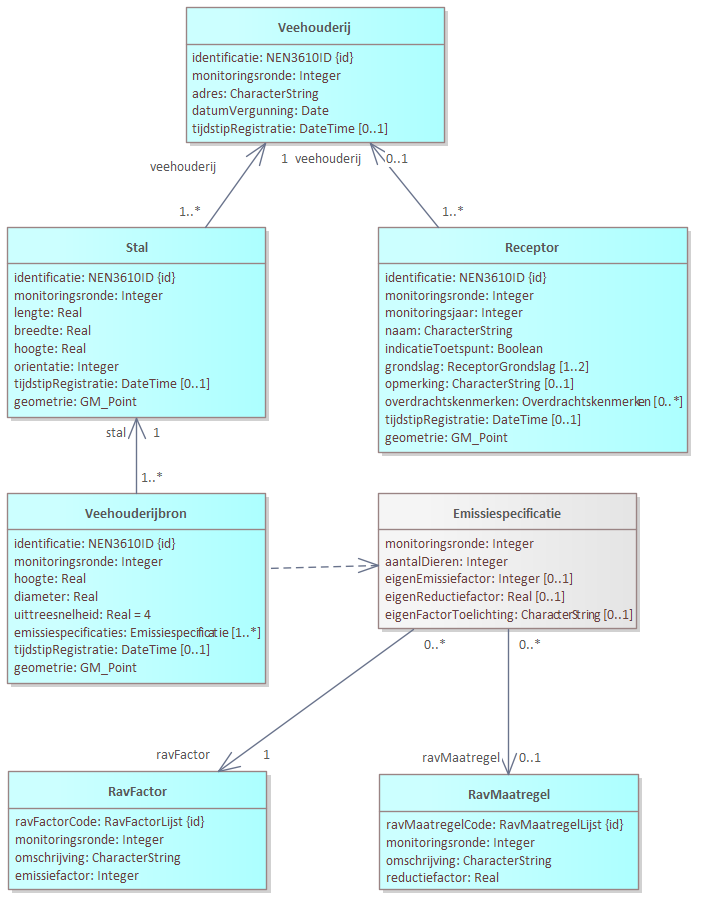
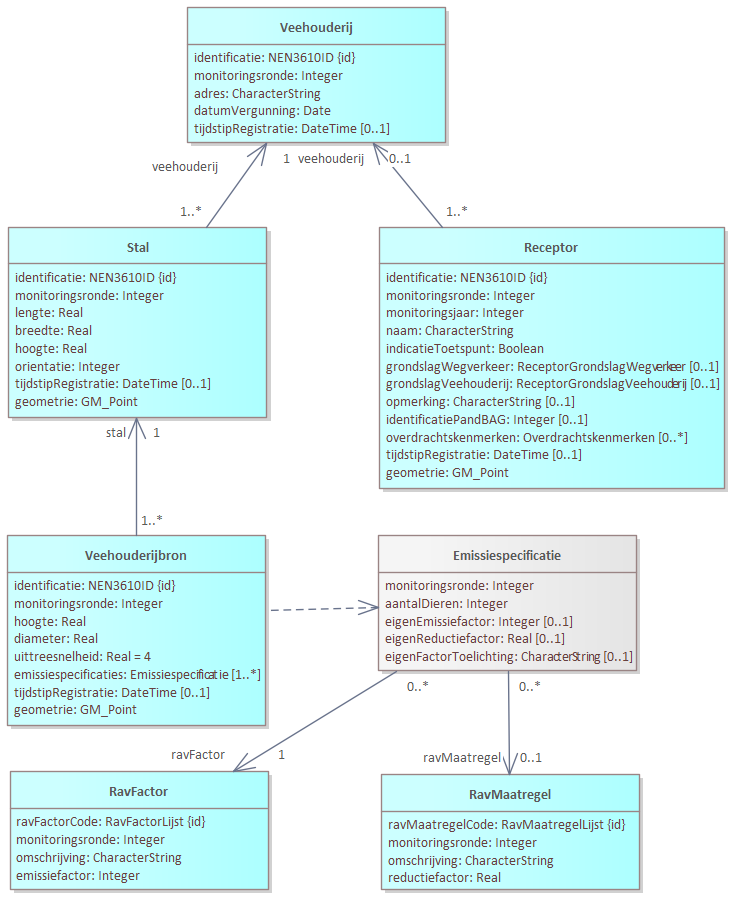
Update diagrammen

diff --git a/docs/index.html b/docs/index.html
@@ -61,7 +61,7 @@
 	</head>
 	<body>
 		<h1 id="title">Informatiemodel Monitoring Luchtkwaliteit</h1>
-		<h2 id="subtitle">6 december 2021</h2>
+		<h2 id="subtitle">7 december 2021</h2>
 		<section id='abstract'>
 			<p>Dit informatiemodel is gericht op de ondersteuning van de monitoring van de luchtkwaliteit in het kader van de Omgevingswet en het Schone Lucht Akkoord. Het is een beschrijving van de gegevens die worden uitgewisseld met het Centraal Instrument Monitoring Luchtkwaliteit (CIMLK). Deze wordt ontwikkeld door RIVM in opdracht van het ministerie van Infrastructuur en Waterstaat.</p>
 		</section>
@@ -282,32 +282,32 @@
 				<h3>Diagrammen</h3>
 				<section>
 					<h4>Wegverkeer</h4>
-					<img src="diagram-wegverkeer.png" usemap="#image-map1"/>
+					<img src="diagram-wegverkeer.png" usemap="#image-map-wegverkeer"/>
 					<br/>
 					Klik op het diagram om naar een specifiek objecttype toe te springen.
-					<map name="image-map1">
+					<map name="image-map-wegverkeer">
 						<area href="#Wegdeel" coords="8,6,307,296" shape="rect"/>
 						<area href="#VerkeersgegevensWeg" coords="436,6,737,126" shape="rect"/>
 						<area href="#Overdrachtskenmerken" coords="9,372,305,471" shape="rect"/>
 						<area href="#Overdrachtsobject" coords="436,204,725,282" shape="rect"/>
-						<area href="#Receptor" coords="4,547,309,772" shape="rect"/>
+						<area href="#Receptor" coords="4,521,351,788" shape="rect"/>
 						<area href="#Correctieterm" coords="426,373,726,455" shape="rect"/>
-						<area href="#Correctie" coords="428,550,729,737" shape="rect"/>
+						<area href="#Correctie" coords="428,521,729,688" shape="rect"/>
 						<area href="#Maatregel" coords="8,821,311,989" shape="rect"/>
 						<area href="#Maatregelfactor" coords="436,823,728,938" shape="rect"/>
 					</map>
 				</section>
 				<section>
 					<h4>Veehouderijen</h4>
-					<img src="diagram-veehouderijen.png" usemap="#image-map2"/>
+					<img src="diagram-veehouderijen.png" usemap="#image-map-veehouderij"/>
 					<br/>
 					Klik op het diagram om naar een specifiek objecttype toe te springen.
-					<map name="image-map2">
+					<map name="image-map-veehouderij">
 						<area href="#Veehouderij" coords="187,7,442,143" shape="rect"/>
-						<area href="#Stal" coords="8,227,266,404" shape="rect"/>
-						<area href="#Receptor" coords="378,225,634,414" shape="rect"/>
-						<area href="#Veehouderijbron" coords="8,493,265,665" shape="rect"/>
-						<area href="#Emissiespecificatie" coords="378,493,635,645" shape="rect"/>
+						<area href="#Stal" coords="8,227,266,417" shape="rect"/>
+						<area href="#Receptor" coords="378,225,725,488" shape="rect"/>
+						<area href="#Veehouderijbron" coords="8,536,265,723" shape="rect"/>
+						<area href="#Emissiespecificatie" coords="378,536,635,668" shape="rect"/>
 						<area href="#RavFactor" coords="8,772,265,888" shape="rect"/>
 						<area href="#RavMaatregel" coords="380,774,638,889" shape="rect"/>
 					</map>
@@ -1820,9 +1820,9 @@ Objecten kunnen in hun levensloop (lifespan) van eigenschappen veranderen maar d
 					</tr>
 					<tr>
 						<td>10</td>
-						<td>grondslag</td>
+						<td>grondslagWegverkeer</td>
 						<td>
-							<a href="#Receptor.grondslag">Receptor.grondslag</a>
+							<a href="#Receptor.grondslagWegverkeer">Receptor.grondslagWegverkeer</a>
 						</td>
 					</tr>
 					<tr>

diff --git a/informatiemodel/respec-basis.html b/informatiemodel/respec-basis.html
@@ -61,7 +61,7 @@
 	</head>
 	<body>
 		<h1 id="title">Informatiemodel Monitoring Luchtkwaliteit</h1>
-		<h2 id="subtitle">6 december 2021</h2>
+		<h2 id="subtitle">7 december 2021</h2>
 		<section id='abstract'>
 			<p>Dit informatiemodel is gericht op de ondersteuning van de monitoring van de luchtkwaliteit in het kader van de Omgevingswet en het Schone Lucht Akkoord. Het is een beschrijving van de gegevens die worden uitgewisseld met het Centraal Instrument Monitoring Luchtkwaliteit (CIMLK). Deze wordt ontwikkeld door RIVM in opdracht van het ministerie van Infrastructuur en Waterstaat.</p>
 		</section>
@@ -282,32 +282,32 @@
 				<h3>Diagrammen</h3>
 				<section>
 					<h4>Wegverkeer</h4>
-					<img src="diagram-wegverkeer.png" usemap="#image-map1"/>
+					<img src="diagram-wegverkeer.png" usemap="#image-map-wegverkeer"/>
 					<br/>
 					Klik op het diagram om naar een specifiek objecttype toe te springen.
-					<map name="image-map1">
+					<map name="image-map-wegverkeer">
 						<area href="#Wegdeel" coords="8,6,307,296" shape="rect"/>
 						<area href="#VerkeersgegevensWeg" coords="436,6,737,126" shape="rect"/>
 						<area href="#Overdrachtskenmerken" coords="9,372,305,471" shape="rect"/>
 						<area href="#Overdrachtsobject" coords="436,204,725,282" shape="rect"/>
-						<area href="#Receptor" coords="4,547,309,772" shape="rect"/>
+						<area href="#Receptor" coords="4,521,351,788" shape="rect"/>
 						<area href="#Correctieterm" coords="426,373,726,455" shape="rect"/>
-						<area href="#Correctie" coords="428,550,729,737" shape="rect"/>
+						<area href="#Correctie" coords="428,521,729,688" shape="rect"/>
 						<area href="#Maatregel" coords="8,821,311,989" shape="rect"/>
 						<area href="#Maatregelfactor" coords="436,823,728,938" shape="rect"/>
 					</map>
 				</section>
 				<section>
 					<h4>Veehouderijen</h4>
-					<img src="diagram-veehouderijen.png" usemap="#image-map2"/>
+					<img src="diagram-veehouderijen.png" usemap="#image-map-veehouderij"/>
 					<br/>
 					Klik op het diagram om naar een specifiek objecttype toe te springen.
-					<map name="image-map2">
+					<map name="image-map-veehouderij">
 						<area href="#Veehouderij" coords="187,7,442,143" shape="rect"/>
-						<area href="#Stal" coords="8,227,266,404" shape="rect"/>
-						<area href="#Receptor" coords="378,225,634,414" shape="rect"/>
-						<area href="#Veehouderijbron" coords="8,493,265,665" shape="rect"/>
-						<area href="#Emissiespecificatie" coords="378,493,635,645" shape="rect"/>
+						<area href="#Stal" coords="8,227,266,417" shape="rect"/>
+						<area href="#Receptor" coords="378,225,725,488" shape="rect"/>
+						<area href="#Veehouderijbron" coords="8,536,265,723" shape="rect"/>
+						<area href="#Emissiespecificatie" coords="378,536,635,668" shape="rect"/>
 						<area href="#RavFactor" coords="8,772,265,888" shape="rect"/>
 						<area href="#RavMaatregel" coords="380,774,638,889" shape="rect"/>
 					</map>

diff --git a/informatiemodel/bijlagen.html b/informatiemodel/bijlagen.html
@@ -76,9 +76,9 @@
 					</tr>
 					<tr>
 						<td>10</td>
-						<td>grondslag</td>
+						<td>grondslagWegverkeer</td>
 						<td>
-							<a href="#Receptor.grondslag">Receptor.grondslag</a>
+							<a href="#Receptor.grondslagWegverkeer">Receptor.grondslagWegverkeer</a>
 						</td>
 					</tr>
 					<tr>
